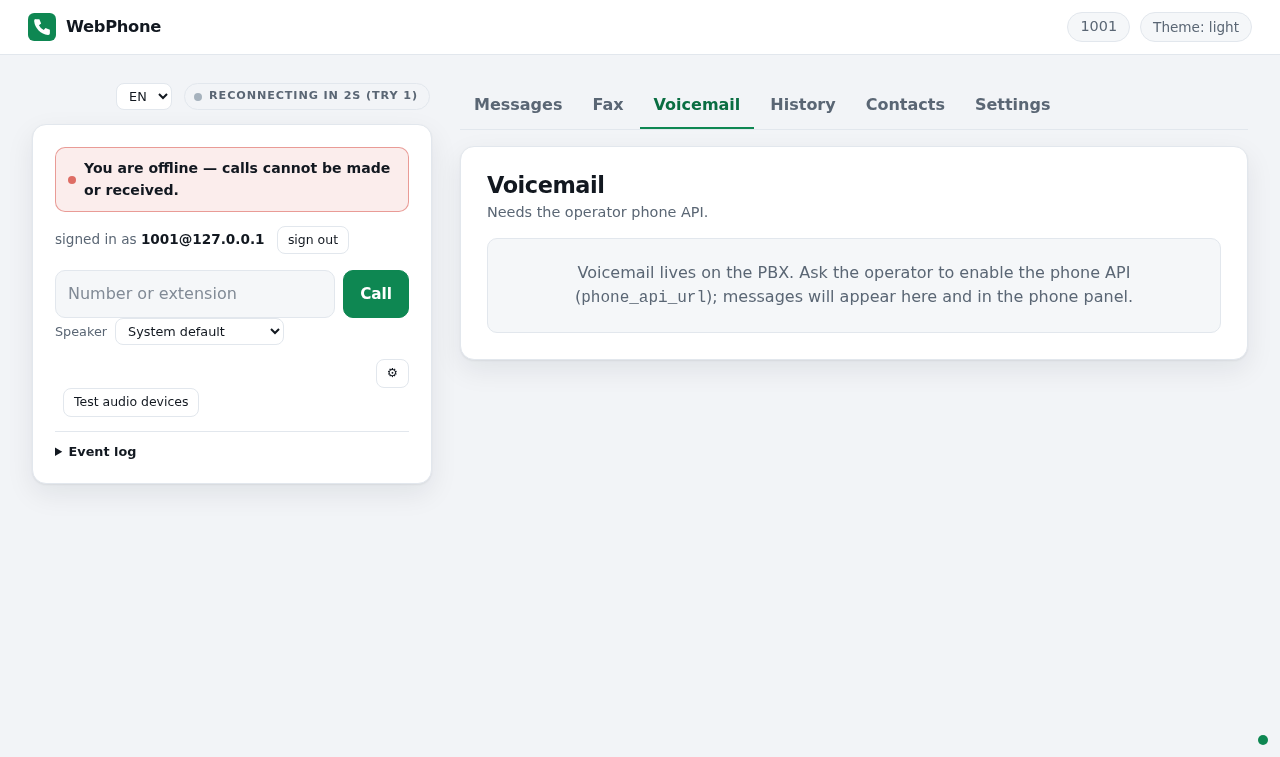
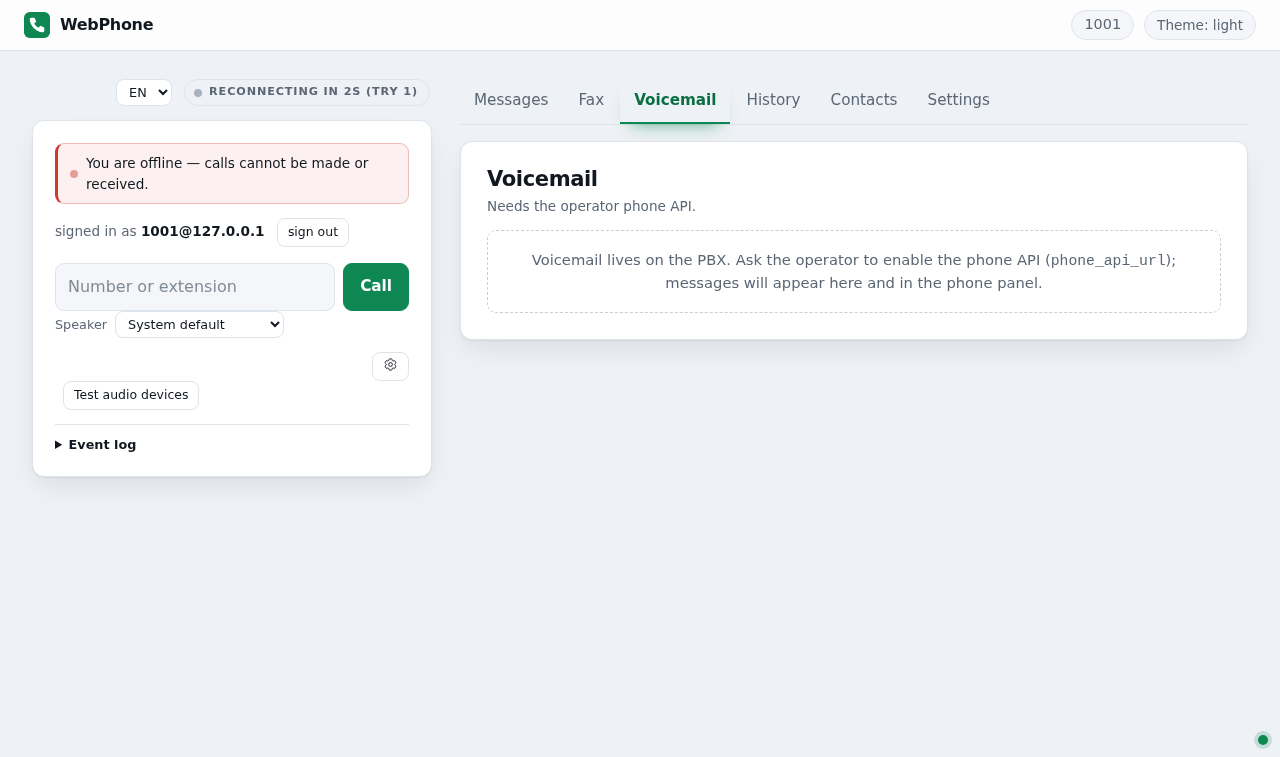
chore: auto-commit 21 changed file(s) (heuristic)
Daemon: true

diff --git a/internal/web/assets/app.css b/internal/web/assets/app.css
@@ -872,6 +872,13 @@ button .wp-icon {
   height: 15px;
 }
 
+/* An icon leading a text run (thread preview, attachment link): templ
+ * emits no whitespace between the nodes, so the gap lives here. */
+.wp-icon-text {
+  margin-inline-end: 4px;
+  opacity: 0.85;
+}
+
 /* Touch targets (M26): coarse pointers get 44px minis regardless of
  * viewport width — the narrow-viewport bump alone misses tablets. */
 @media (pointer: coarse) {
@@ -1689,8 +1696,10 @@ a:focus-visible {
  * space below the card and the composer lands at its bottom edge. The
  * welcome panel stays content-sized. (Design pass 2026-10-12.) */
 @media (min-width: 901px) {
-  .wp-main-col > .wp-panel:not(.wp-welcome) {
-    min-height: clamp(430px, calc(100dvh - 240px), 980px);
+  /* Descendant, not child: #tab-content (main.wp-content) sits between
+   * the column and the panel. */
+  .wp-main-col .wp-panel:not(.wp-welcome) {
+    min-height: clamp(430px, calc(100dvh - 190px), 1020px);
   }
 
   .wp-panel:has(> .wp-transcript-wrap) > .wp-transcript-wrap {

diff --git a/internal/userauth/userauth.go b/internal/userauth/userauth.go
@@ -22,6 +22,7 @@ import (
 	"slices"
 	"strings"
 
+	identitymodel "github.com/larsartmann/cqrs-htmx/identity-model/v4"
 	"github.com/larsartmann/cqrs-htmx/usermgmt/v4"
 	waprovider "github.com/larsartmann/cqrs-htmx/usermgmt/webauthn/v4"
 	"github.com/larsartmann/go-error-family"
@@ -55,7 +56,7 @@ type PasskeyRuntime struct {
 	// WebAuthn optionally overrides the go-webauthn provider built from
 	// RPID/RPOrigins. Tests inject the deterministic stub here; the
 	// production composition root leaves it nil.
-	WebAuthn usermgmt.WebAuthnProvider
+	WebAuthn identitymodel.WebAuthnProvider
 }
 
 // MappedUser is one email's resolved mapping.
@@ -171,12 +172,12 @@ func (s *Service) BeginLogin(ctx context.Context, email string) (*usermgmt.Begin
 
 // FinishLogin verifies the assertion for the userID the begin ceremony
 // returned and resolves the authenticated user's extension mapping. The
-// userID arrives strictly parsed (a ULID-branded usermgmt.UserID): the
+// userID arrives strictly parsed (a ULID-branded identitymodel.UserID): the
 // browser-provided session key is validated at the handler door, never
 // hashed into a pseudo-user here. The usermgmt session in the ceremony
 // result is intentionally ignored (the webphone session is the single
 // session truth).
-func (s *Service) FinishLogin(ctx context.Context, userID usermgmt.UserID, r *http.Request) (MappedUser, error) {
+func (s *Service) FinishLogin(ctx context.Context, userID identitymodel.UserID, r *http.Request) (MappedUser, error) {
 	empty := MappedUser{}
 	resp, err := s.users.FinishLogin(ctx, userID, r)
 	if err != nil {
@@ -238,29 +239,29 @@ func (s *Service) SIPPassword(extension domain.Extension) (string, error) {
 // Register creates the usermgmt account if it does not exist yet and
 // returns its ID. An existing account is NOT an error — minting an
 // enrollment token for it is the normal add-a-device flow.
-func (s *Service) Register(ctx context.Context, email string) (usermgmt.UserID, error) {
+func (s *Service) Register(ctx context.Context, email string) (identitymodel.UserID, error) {
 	resp, err := s.users.Register(ctx, usermgmt.RegisterRequest{Email: email})
 	if err == nil {
 		return resp.User.ID, nil
 	}
-	if errors.Is(err, usermgmt.ErrEmailExists) {
+	if errors.Is(err, identitymodel.ErrEmailExists) {
 		existing, ok := s.users.ReadModel().FindByEmail(email)
 		if !ok {
-			return usermgmt.UserID{}, errorfamily.WrapInfrastructure(err, "userauth.register.exists_unreadable",
+			return identitymodel.UserID{}, errorfamily.WrapInfrastructure(err, "userauth.register.exists_unreadable",
 				"account exists but the read model cannot resolve it").WithContext("email", email)
 		}
 		return existing.ID, nil
 	}
-	return usermgmt.UserID{}, err
+	return identitymodel.UserID{}, err
 }
 
 // BeginRegistration / FinishRegistration drive the passkey enrollment
 // ceremony for an existing usermgmt account (the userID strictly parsed
 // by the caller — a CLI literal or a token-resolved account).
-func (s *Service) BeginRegistration(ctx context.Context, userID usermgmt.UserID) (*usermgmt.BeginRegistrationResponse, error) {
+func (s *Service) BeginRegistration(ctx context.Context, userID identitymodel.UserID) (*usermgmt.BeginRegistrationResponse, error) {
 	return s.users.BeginRegistration(ctx, userID)
 }
 
-func (s *Service) FinishRegistration(ctx context.Context, userID usermgmt.UserID, r *http.Request, credentialName string) error {
+func (s *Service) FinishRegistration(ctx context.Context, userID identitymodel.UserID, r *http.Request, credentialName string) error {
 	return s.users.FinishRegistration(ctx, userID, r, credentialName)
 }

diff --git a/internal/userauth/enroll.go b/internal/userauth/enroll.go
@@ -9,6 +9,7 @@ import (
 	"encoding/hex"
 	"time"
 
+	identitymodel "github.com/larsartmann/cqrs-htmx/identity-model/v4"
 	"github.com/larsartmann/cqrs-htmx/usermgmt/v4"
 	"github.com/larsartmann/go-error-family"
 )
@@ -21,7 +22,7 @@ const EnrollTokenTTL = 15 * time.Minute
 // EnrollToken is what a verified enrollment token resolves to.
 type EnrollToken struct {
 	Email  string
-	UserID usermgmt.UserID
+	UserID identitymodel.UserID
 }
 
 // migrateEnrollTokens owns the ONE webphone-side table in the usermgmt
@@ -46,7 +47,7 @@ func (s *Service) migrateEnrollTokens(ctx context.Context) error {
 // usermgmt account and returns the URL-safe secret exactly once. Only its
 // SHA-256 is stored; the row is burned on first use and expired rows are
 // swept opportunistically on every mint.
-func (s *Service) MintEnrollToken(ctx context.Context, email string, userID usermgmt.UserID) (string, error) {
+func (s *Service) MintEnrollToken(ctx context.Context, email string, userID identitymodel.UserID) (string, error) {
 	raw := make([]byte, 32)
 	if _, err := rand.Read(raw); err != nil {
 		return "", errorfamily.WrapInfrastructure(err, "userauth.enroll.entropy", "generate enrollment token entropy") //nolint:erraudit // crypto/rand takes no ctx; the wrap owns the code
@@ -89,7 +90,7 @@ func (s *Service) VerifyEnrollToken(ctx context.Context, token string) (EnrollTo
 		}
 		return EnrollToken{}, errorfamily.WrapInfrastructure(err, "userauth.enroll.lookup", "look up enrollment token")
 	}
-	userID, err := usermgmt.ParseUserID(rawUserID)
+	userID, err := identitymodel.ParseUserID(rawUserID)
 	if err != nil {
 		return EnrollToken{}, errorfamily.Wrapf(err, errorfamily.Corruption, "userauth.enroll.userid",
 			"stored enrollment token names an invalid user id %q", rawUserID)
